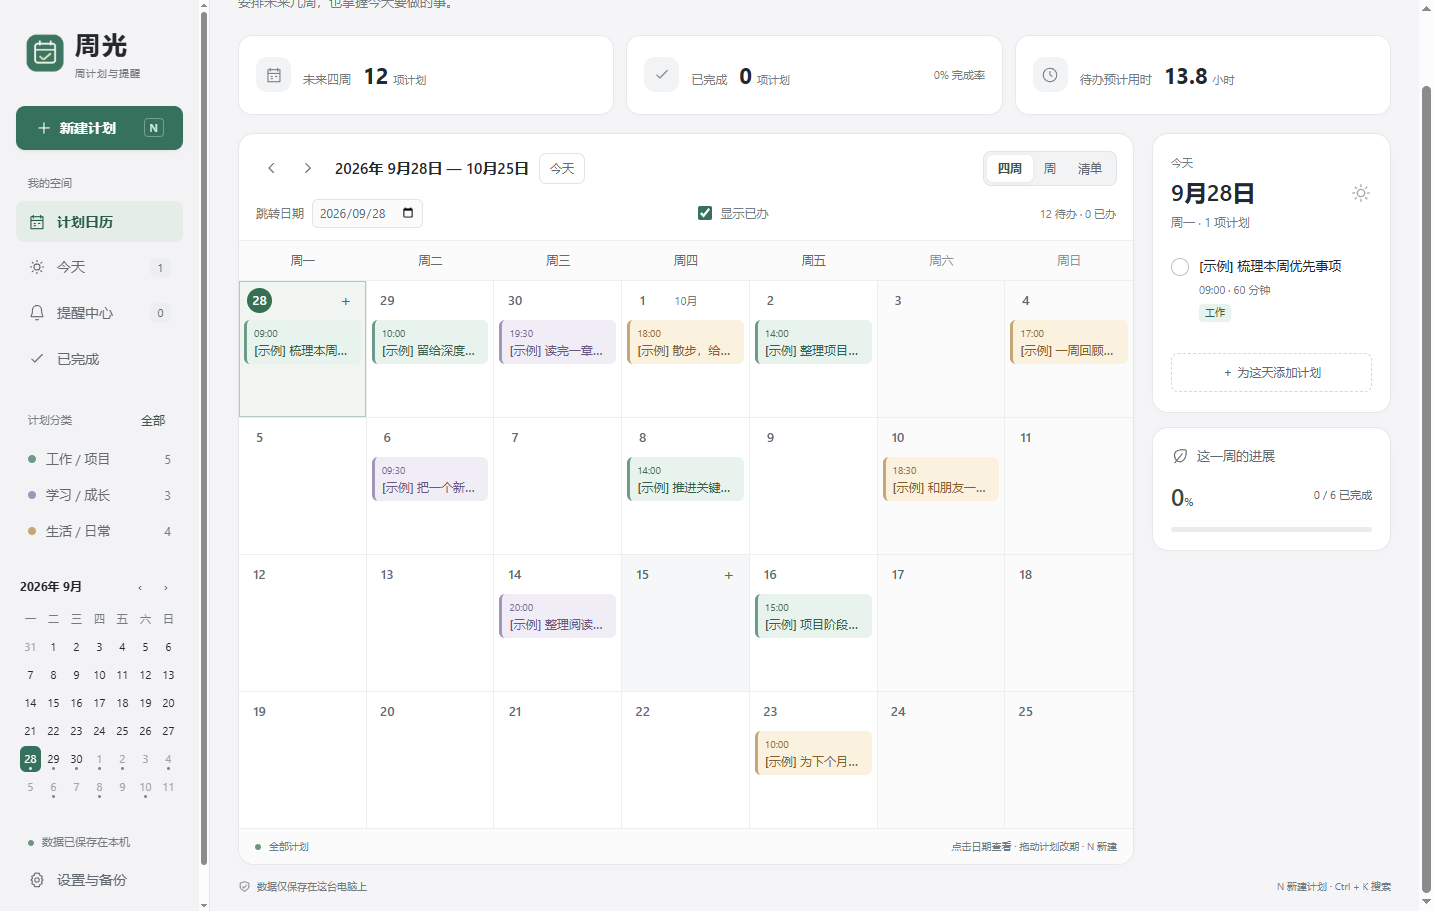
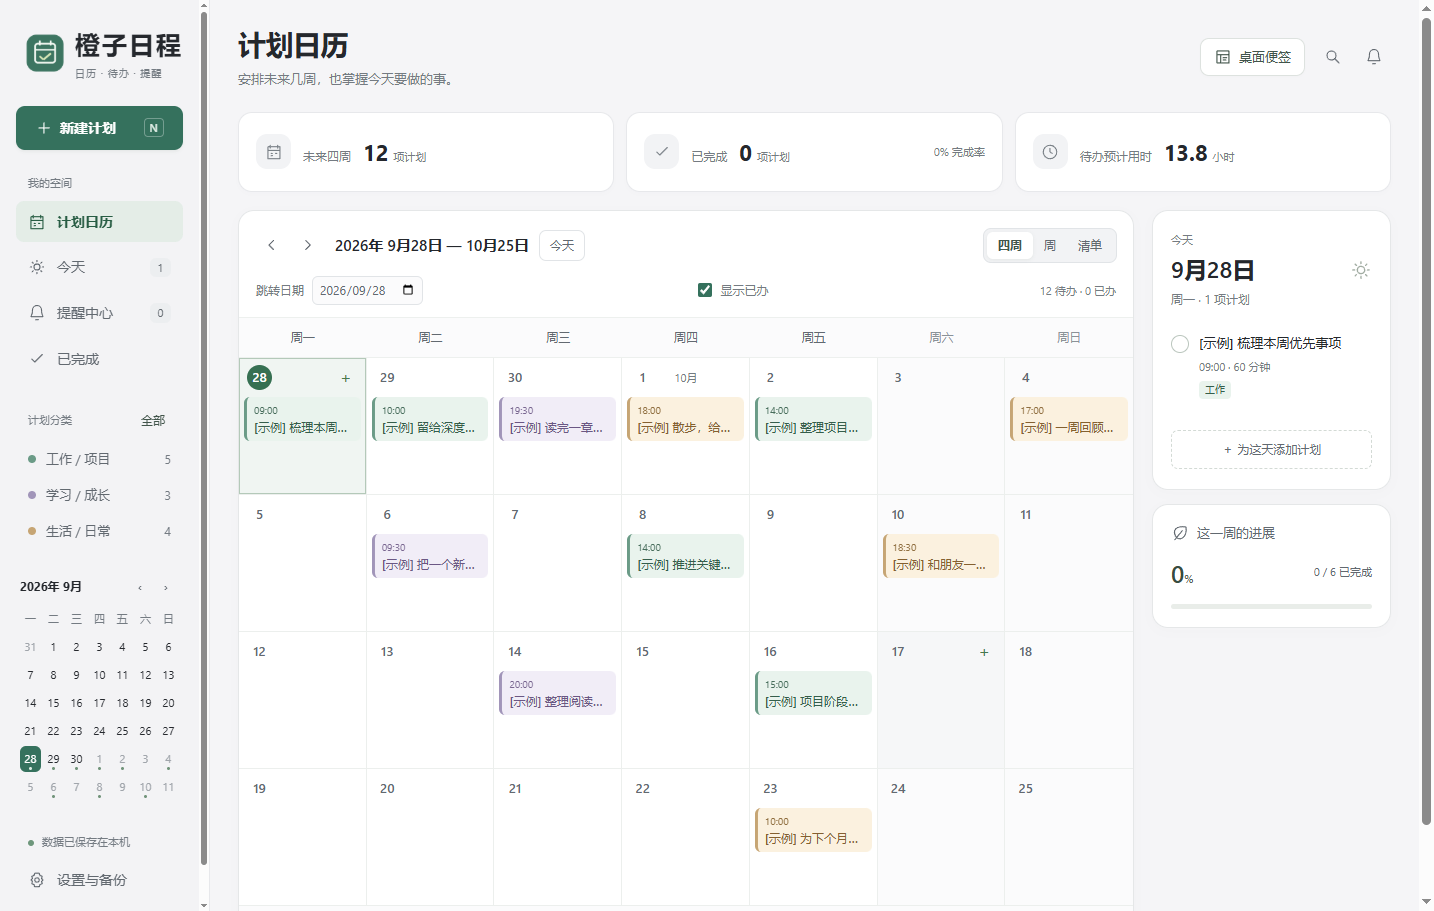
Rename app to Orange Schedule and preserve upgrade identity

diff --git a/src/index.html b/src/index.html
@@ -1,14 +1,14 @@
-<!DOCTYPE html><html lang="zh-CN"><head><meta charset="utf-8"><meta name="viewport" content="width=device-width,initial-scale=1"><meta http-equiv="Content-Security-Policy" content="default-src 'self'; style-src 'self' 'unsafe-inline'; script-src 'self'; img-src 'self' data:"><title>周光 · 计划你的每一周</title><link rel="stylesheet" href="style.css"></head><body>
+<!DOCTYPE html><html lang="zh-CN"><head><meta charset="utf-8"><meta name="viewport" content="width=device-width,initial-scale=1"><meta http-equiv="Content-Security-Policy" content="default-src 'self'; style-src 'self' 'unsafe-inline'; script-src 'self'; img-src 'self' data:"><title>橙子日程 · 计划你的每一周</title><link rel="stylesheet" href="style.css"></head><body>
 <div class="shell">
 <aside class="sidebar">
- <div class="brand"><img src="assets/icon.png" alt=""><div>周光<span>周计划与提醒</span></div></div>
+ <div class="brand"><img src="assets/icon.png" alt=""><div>橙子日程<span>日历 · 待办 · 提醒</span></div></div>
  <button class="primary new-button" data-action="new"><span data-icon="plus"></span> 新建计划 <kbd>N</kbd></button>
  <div class="nav-label">我的空间</div>
  <nav><button class="nav-item active" data-view="calendar"><span data-icon="calendar"></span>计划日历</button><button class="nav-item" data-view="today"><span data-icon="sun"></span>今天<span class="count" id="today-count">0</span></button><button class="nav-item" data-view="inbox"><span data-icon="bell"></span>提醒中心<span class="count" id="reminder-count">0</span></button><button class="nav-item" data-view="done"><span data-icon="check"></span>已完成</button></nav>
  <div class="nav-label categories-title">计划分类<button class="text-button" id="reset-filter">全部</button></div>
  <div id="categories"></div>
  <div class="mini-calendar"><div class="mini-head"><strong id="mini-label"></strong><div><button id="mini-prev" class="icon-button" aria-label="上个月">‹</button><button id="mini-next" class="icon-button" aria-label="下个月">›</button></div></div><div class="mini-week"><span>一</span><span>二</span><span>三</span><span>四</span><span>五</span><span>六</span><span>日</span></div><div id="mini-days"></div></div>
- <div class="sidebar-bottom"><div class="local-status"><i></i> 数据已保存在本机</div><button class="nav-item" id="settings-button"><span data-icon="settings"></span>设置与备份</button><div class="version">周光 1.1.2 <span>专注每一天</span></div></div>
+ <div class="sidebar-bottom"><div class="local-status"><i></i> 数据已保存在本机</div><button class="nav-item" id="settings-button"><span data-icon="settings"></span>设置与备份</button><div class="version">橙子日程 1.1.3 <span>专注每一天</span></div></div>
 </aside>
 <main class="workspace">
  <header class="page-header"><div><h1 id="page-title">计划日历</h1><p id="page-subtitle">安排未来几周，也掌握今天要做的事。</p></div><div class="header-actions"><button class="secondary widget-entry" id="open-widget" title="在桌面查看日清单或周清单"><span data-icon="widget"></span>桌面便签</button><button class="icon-button" id="search-button" title="搜索计划 Ctrl+K" aria-label="搜索计划"><span data-icon="search"></span></button><button class="icon-button" data-action="inbox" title="提醒中心" aria-label="提醒中心"><span data-icon="bell"></span><i id="bell-dot"></i></button></div></header>
@@ -23,6 +23,6 @@
  <footer class="app-footer"><span data-icon="shield"></span> 数据仅保存在这台电脑上 <span class="footer-right">N 新建计划 · Ctrl + K 搜索</span></footer>
 </main></div>
 <dialog id="editor"><form id="task-form"><div class="modal-head"><div><h2 id="editor-title">新建计划</h2></div><button type="button" class="icon-button close-dialog" aria-label="关闭">×</button></div><input type="hidden" name="id"><label class="field">计划名称<input name="title" required maxlength="160" placeholder="输入计划名称" autofocus></label><div class="form-grid"><label class="field">日期<input type="date" name="date" required></label><label class="field">开始时间<input type="time" name="time" required></label><label class="field">预计时长<select name="duration"><option value="15">15 分钟</option><option value="30">30 分钟</option><option value="60" selected>1 小时</option><option value="90">1.5 小时</option><option value="120">2 小时</option><option value="180">3 小时</option><option value="240">4 小时</option><option value="480">8 小时</option></select></label><label class="field">计划分类<select name="category"><option value="work">工作 / 项目</option><option value="study">学习 / 成长</option><option value="life">生活 / 日常</option></select></label><label class="field">提醒<select name="reminder"><option value="-1">不提醒</option><option value="0">开始时</option><option value="5">提前 5 分钟</option><option value="10" selected>提前 10 分钟</option><option value="15">提前 15 分钟</option><option value="30">提前 30 分钟</option><option value="60">提前 1 小时</option><option value="1440">提前 1 天</option></select></label><label class="field" id="repeat-field">每周重复<select name="repeat"><option value="1">不重复</option><option value="4">连续 4 周</option><option value="8">连续 8 周</option><option value="12">连续 12 周</option></select></label></div><label class="field">备注 <span class="optional">选填</span><textarea name="notes" rows="3" maxlength="5000" placeholder="准备事项、地点或补充说明…"></textarea></label><label class="checkbox-label"><input type="checkbox" name="priority"> 标记为重要计划</label><p class="form-hint" id="form-hint">重复计划会生成独立事项，可分别修改和完成。</p><div id="form-error" class="error-message" role="alert"></div><div class="modal-footer"><button type="button" id="delete-task" class="danger-button" hidden>删除计划</button><div class="spacer"></div><button type="button" class="secondary close-dialog">取消</button><button type="submit" class="primary">保存计划</button></div></form></dialog>
-<dialog id="settings-dialog"><div class="modal-head"><div><h2>设置与备份</h2></div><button class="icon-button close-dialog" aria-label="关闭">×</button></div><div class="setting-line"><div><strong>提醒声音</strong><p>使用 Windows 通知的系统提示音</p></div><input type="checkbox" id="setting-sound" aria-label="提醒声音"></div><div class="setting-line"><div><strong>独立提醒窗口</strong><p>到时弹出窗口，可完成或稍后提醒</p></div><input type="checkbox" id="setting-popup" aria-label="独立提醒窗口"></div><div class="setting-line"><div><strong>开机自动启动</strong><p id="startup-hint">登录 Windows 后在后台运行</p></div><input type="checkbox" id="setting-startup" aria-label="开机自动启动"></div><button class="secondary full-width" id="test-reminder">发送测试提醒</button><div class="notice"><strong>提醒如何运行</strong><p>关闭主窗口后，周光会留在系统托盘中继续提醒。彻底退出、关机或休眠期间无法即时提醒；再次启动或唤醒后会补发未提醒的事项。系统通知受 Windows 通知设置影响。</p></div><div class="backup-row"><button class="secondary" id="export-data">导出备份</button><button class="secondary" id="import-data">导入备份</button><button class="text-button" id="open-data">打开数据目录 ↗</button></div><p class="data-path" id="data-path"></p><div class="setting-line"><div><strong>示例计划</strong><p>添加几项示例计划（均不触发提醒）</p></div><button class="small-button" id="load-samples">载入示例</button></div><button class="danger-button full-width" id="quit">彻底退出周光</button></dialog>
+<dialog id="settings-dialog"><div class="modal-head"><div><h2>设置与备份</h2></div><button class="icon-button close-dialog" aria-label="关闭">×</button></div><div class="setting-line"><div><strong>提醒声音</strong><p>使用 Windows 通知的系统提示音</p></div><input type="checkbox" id="setting-sound" aria-label="提醒声音"></div><div class="setting-line"><div><strong>独立提醒窗口</strong><p>到时弹出窗口，可完成或稍后提醒</p></div><input type="checkbox" id="setting-popup" aria-label="独立提醒窗口"></div><div class="setting-line"><div><strong>开机自动启动</strong><p id="startup-hint">登录 Windows 后在后台运行</p></div><input type="checkbox" id="setting-startup" aria-label="开机自动启动"></div><button class="secondary full-width" id="test-reminder">发送测试提醒</button><div class="notice"><strong>提醒如何运行</strong><p>关闭主窗口后，橙子日程会留在系统托盘中继续提醒。彻底退出、关机或休眠期间无法即时提醒；再次启动或唤醒后会补发未提醒的事项。系统通知受 Windows 通知设置影响。</p></div><div class="backup-row"><button class="secondary" id="export-data">导出备份</button><button class="secondary" id="import-data">导入备份</button><button class="text-button" id="open-data">打开数据目录 ↗</button></div><p class="data-path" id="data-path"></p><div class="setting-line"><div><strong>示例计划</strong><p>添加几项示例计划（均不触发提醒）</p></div><button class="small-button" id="load-samples">载入示例</button></div><button class="danger-button full-width" id="quit">彻底退出橙子日程</button></dialog>
 <dialog id="confirm-dialog"><h2 id="confirm-title">删除计划？</h2><p id="confirm-text"></p><div class="modal-footer"><button class="secondary" id="confirm-no">取消</button><button class="primary" id="confirm-yes">确定删除</button></div></dialog>
 <div id="toast" role="status"></div><script src="renderer.js"></script></body></html>

diff --git a/src/widget.html b/src/widget.html
@@ -1,5 +1,5 @@
-<!DOCTYPE html><html lang="zh-CN"><head><meta charset="utf-8"><meta name="viewport" content="width=device-width,initial-scale=1"><meta http-equiv="Content-Security-Policy" content="default-src 'self'; style-src 'self' 'unsafe-inline'; script-src 'self'; img-src 'self' data:"><title>周光 · 桌面便签</title><link rel="stylesheet" href="widget.css"></head><body><section class="widget" data-theme="sage">
-<header class="widget-chrome"><div class="widget-brand"><img src="assets/icon.png" alt="">周光 <span>桌面便签</span></div><div class="chrome-actions"><button id="widget-pin" class="icon-button" aria-label="置顶便签" aria-pressed="false" title="置顶便签"><svg viewBox="0 0 24 24"><path d="m8 3 8 0-1 7 3 4H6l3-4zM12 14v7"/></svg></button><button id="widget-preferences" class="icon-button" aria-label="便签外观" title="便签外观">⋯</button><button id="widget-close" class="icon-button" aria-label="关闭便签" title="关闭便签">×</button></div></header>
+<!DOCTYPE html><html lang="zh-CN"><head><meta charset="utf-8"><meta name="viewport" content="width=device-width,initial-scale=1"><meta http-equiv="Content-Security-Policy" content="default-src 'self'; style-src 'self' 'unsafe-inline'; script-src 'self'; img-src 'self' data:"><title>橙子日程 · 桌面便签</title><link rel="stylesheet" href="widget.css"></head><body><section class="widget" data-theme="sage">
+<header class="widget-chrome"><div class="widget-brand"><img src="assets/icon.png" alt="">橙子日程 <span>桌面便签</span></div><div class="chrome-actions"><button id="widget-pin" class="icon-button" aria-label="置顶便签" aria-pressed="false" title="置顶便签"><svg viewBox="0 0 24 24"><path d="m8 3 8 0-1 7 3 4H6l3-4zM12 14v7"/></svg></button><button id="widget-preferences" class="icon-button" aria-label="便签外观" title="便签外观">⋯</button><button id="widget-close" class="icon-button" aria-label="关闭便签" title="关闭便签">×</button></div></header>
 <div class="widget-hero"><div><div class="eyebrow" id="widget-eyebrow">把重要的事，留在眼前</div><h1 id="widget-title">今天的计划</h1><p id="widget-range"></p></div><div class="progress-ring"><div><strong id="progress-number">0</strong><span>待办</span></div></div></div>
 <div id="preferences" class="preferences" hidden><div><span>便签颜色</span><div class="swatches"><button data-theme="sage" title="鼠尾草绿" aria-label="鼠尾草绿"></button><button data-theme="cream" title="暖米色" aria-label="暖米色"></button><button data-theme="lavender" title="浅紫色" aria-label="浅紫色"></button></div></div><label><input id="show-completed" type="checkbox" checked>显示已办清单</label><p>默认位于其他窗口下方，置顶后保持在最前。<br>拖动顶部移动 · 拖动边缘调整大小</p></div>
 <div class="widget-controls"><div class="segmented"><button data-mode="day" class="active">日</button><button data-mode="week">周</button></div><div class="date-controls"><button id="widget-prev" class="icon-button" aria-label="上一日或周">‹</button><button id="widget-today" class="today-button">今天</button><button id="widget-next" class="icon-button" aria-label="下一日或周">›</button></div><select id="widget-category" aria-label="筛选分类"><option value="all">全部分类</option><option value="work">工作</option><option value="study">学习</option><option value="life">生活</option></select></div>

diff --git a/src/style.css b/src/style.css
@@ -14,7 +14,8 @@ button svg{pointer-events:none}
 .sidebar{width:210px;flex-shrink:0;padding:25px 16px 16px;border-right:1px solid var(--line);display:flex;flex-direction:column;background:rgba(242,243,245,.88);backdrop-filter:blur(24px);overflow-y:auto;scrollbar-width:thin}
 .sidebar>*{flex-shrink:0}
 .brand{display:flex;align-items:center;gap:11px;padding:0 10px 25px;font-size:25px;font-weight:650;letter-spacing:2px}
-.brand img{width:38px;height:38px}
+.brand img{width:38px;height:38px;flex-shrink:0}
+.brand>div{white-space:nowrap}
 .brand span{display:block;font-size:10px;font-weight:400;letter-spacing:1px;color:var(--muted);line-height:1.6;margin-top:1px}
 .primary{background:var(--green);color:#fff;border-radius:9px;padding:10px 19px;font-weight:600;box-shadow:0 2px 4px #284a3210}
 .primary:hover{background:#295c4b}
@@ -215,6 +216,7 @@ dialog::backdrop{background:#292a3033;backdrop-filter:blur(3px)}
 #toast{position:fixed;bottom:26px;left:50%;transform:translateX(-50%) translateY(10px);background:#343b37;color:#f7faf4;border-radius:9px;box-shadow:0 6px 24px #2022251a;padding:12px 22px;font-size:13px;opacity:0;pointer-events:none;transition:.2s;z-index:10;max-width:70vw}
 #toast.visible{opacity:1;transform:translateX(-50%) translateY(0)}
 @media(max-width:1350px){
+ .brand{font-size:20px;letter-spacing:0;gap:8px}
  .workspace{padding:23px 20px 14px}.day-panel{width:220px}.sidebar{width:192px;padding-left:13px;padding-right:13px}
  .stat-caption{display:none}.content-layout{gap:14px}.calendar-toolbar{padding:13px 11px 9px}
  .date-navigation h2{font-size:14px;margin:0 4px}.segmented button{padding:4px 9px}

diff --git a/src/reminder.html b/src/reminder.html
@@ -1,1 +1,1 @@
-<!DOCTYPE html><html lang="zh-CN"><head><meta charset="utf-8"><meta http-equiv="Content-Security-Policy" content="default-src 'self'; style-src 'self' 'unsafe-inline'; script-src 'self'; img-src 'self' data:"><title>周光 · 提醒</title><link rel="stylesheet" href="style.css"></head><body style="padding:25px;background:#f7f9f5"><div class="eyebrow">A GENTLE REMINDER</div><h1 style="font-size:23px">为重要的事，留一点时间。</h1><div id="reminders"></div><button class="text-button" id="open-main" style="margin-top:18px">打开计划日历 ↗</button><script src="reminder.js"></script></body></html>
+<!DOCTYPE html><html lang="zh-CN"><head><meta charset="utf-8"><meta http-equiv="Content-Security-Policy" content="default-src 'self'; style-src 'self' 'unsafe-inline'; script-src 'self'; img-src 'self' data:"><title>橙子日程 · 提醒</title><link rel="stylesheet" href="style.css"></head><body style="padding:25px;background:#f7f9f5"><div class="eyebrow">A GENTLE REMINDER</div><h1 style="font-size:23px">为重要的事，留一点时间。</h1><div id="reminders"></div><button class="text-button" id="open-main" style="margin-top:18px">打开计划日历 ↗</button><script src="reminder.js"></script></body></html>

diff --git a/CHANGELOG.md b/CHANGELOG.md
@@ -1,5 +1,13 @@
 # 更新记录
 
+## 1.1.3 · 更名为橙子日程
+
+- 更新主日历、桌面便签、提醒窗口、托盘菜单与安装快捷方式的显示名称。
+- 安装包改名为 `OrangeSchedule-Setup-1.1.3.exe`，补充 Windows 日程管理与桌面待办的用途介绍。
+- 保留 `weeklight` 数据目录、安装标识、环境变量和备份格式，兼容公开版已有计划。
+- 更新同一安装目录中已启用的旧名称开机启动路径；保留用户关闭自动启动的选择。
+- 保留原 GitHub 仓库地址和历史版本下载。
+
 ## 1.1.2 · 首次公开发行
 
 - 默认数据保存在 Windows 当前用户的应用数据目录，取消对特定盘符的依赖。
